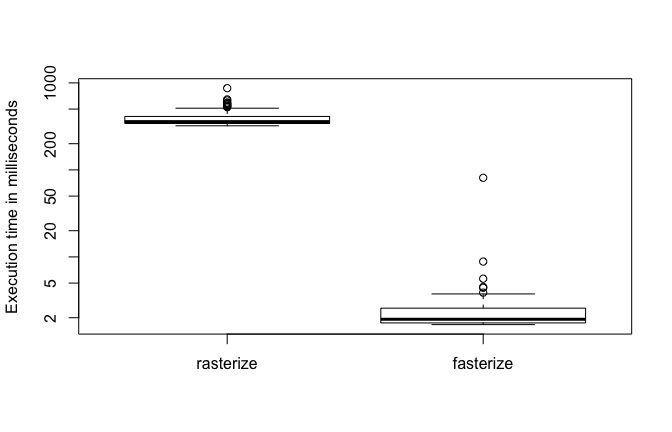
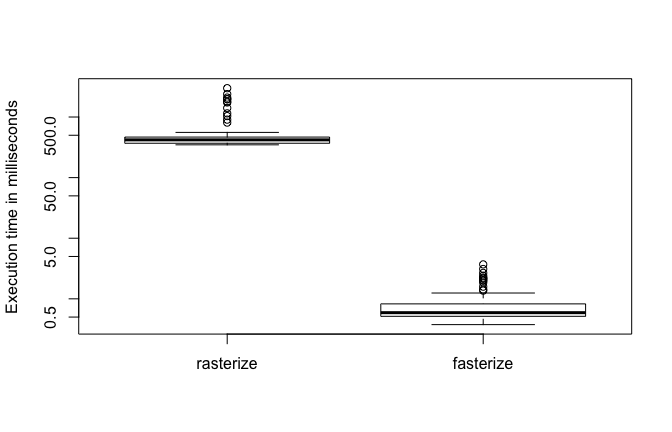
Moar faster! Some low-level speed tweaks
-   Move extraction of raster components in Rcpp
    to reduce overhead
-   Update the raster matrix in-place
-   Use Rcpp::internal::is_na instead of R_IsNA
-   Drop "crop" argument
-   Don't check every polygon class, just the overall
-   Update README

diff --git a/src/RcppExports.cpp b/src/RcppExports.cpp
@@ -7,16 +7,16 @@
 using namespace Rcpp;
 
 // rasterize_polygons
-arma::mat rasterize_polygons(Rcpp::List& polygons, Rcpp::NumericVector& field_values, Rcpp::List raster_info, double background);
-RcppExport SEXP fasterize_rasterize_polygons(SEXP polygonsSEXP, SEXP field_valuesSEXP, SEXP raster_infoSEXP, SEXP backgroundSEXP) {
+Rcpp::S4 rasterize_polygons(Rcpp::S4& raster, Rcpp::List& polygons, Rcpp::NumericVector& field_values, double background);
+RcppExport SEXP fasterize_rasterize_polygons(SEXP rasterSEXP, SEXP polygonsSEXP, SEXP field_valuesSEXP, SEXP backgroundSEXP) {
 BEGIN_RCPP
     Rcpp::RObject rcpp_result_gen;
     Rcpp::RNGScope rcpp_rngScope_gen;
+    Rcpp::traits::input_parameter< Rcpp::S4& >::type raster(rasterSEXP);
     Rcpp::traits::input_parameter< Rcpp::List& >::type polygons(polygonsSEXP);
     Rcpp::traits::input_parameter< Rcpp::NumericVector& >::type field_values(field_valuesSEXP);
-    Rcpp::traits::input_parameter< Rcpp::List >::type raster_info(raster_infoSEXP);
     Rcpp::traits::input_parameter< double >::type background(backgroundSEXP);
-    rcpp_result_gen = Rcpp::wrap(rasterize_polygons(polygons, field_values, raster_info, background));
+    rcpp_result_gen = Rcpp::wrap(rasterize_polygons(raster, polygons, field_values, background));
     return rcpp_result_gen;
 END_RCPP
 }

diff --git a/src/rasterize_polygons.cpp b/src/rasterize_polygons.cpp
@@ -9,13 +9,14 @@
 // [[Rcpp::plugins(cpp11)]
 // [[Rcpp::depends(RcppArmadillo)]]
 // [[Rcpp::export]]
-arma::mat rasterize_polygons(Rcpp::List &polygons,
-                             Rcpp::NumericVector &field_values,
-                             Rcpp::List raster_info,
-                             double background) {
+Rcpp::S4 rasterize_polygons(Rcpp::S4 &raster,
+                            Rcpp::List &polygons,
+                            Rcpp::NumericVector &field_values,
+                            double background) {
 
   //Move this R list into a C++ struct
-  RasterInfo ras(raster_info);
+  RasterInfo ras(raster);
+  Rcpp::S4 rasterdata = raster.slot("data");
 
   //Create the empty raster to fill
   arma::mat raster_matrix(ras.nrow, ras.ncol);
@@ -33,6 +34,12 @@ arma::mat rasterize_polygons(Rcpp::List &polygons,
   if(!R_IsNA(background)) {
     raster_matrix.replace(NA_REAL, background);
   }
-  return raster_matrix;
 
+  rasterdata.slot("values") = raster_matrix.t();
+  rasterdata.slot("min") = raster_matrix.min();
+  rasterdata.slot("max") = raster_matrix.max();
+  rasterdata.slot("inmemory") = true;
+  rasterdata.slot("fromdisk") = false;
+  rasterdata.slot("haveminmax") = true;
+  return rasterdata;
 }

diff --git a/src/edge.h b/src/edge.h
@@ -5,16 +5,27 @@
 
 // A small object to hold basic info about raster dimensions
 struct RasterInfo {
-  double xmin, ymax, xres, yres;
+  double xmin, xmax, ymin, ymax, xres, yres;
   int nrow, ncol;
 
-  RasterInfo(Rcpp::List &raster_info) {
-    xmin = Rcpp::as<double>(raster_info["xmin"]);
-    ymax = Rcpp::as<double>(raster_info["ymax"]);
-    xres = Rcpp::as<double>(raster_info["xres"]);
-    yres = Rcpp::as<double>(raster_info["yres"]);
-    nrow = Rcpp::as<int>(raster_info["nrow"]);
-    ncol = Rcpp::as<int>(raster_info["ncol"]);
+  RasterInfo(Rcpp::S4 raster) {
+    Rcpp::S4 extent = raster.slot("extent");
+    xmin = extent.slot("xmin");
+    xmax = extent.slot("xmax");
+    ymin = extent.slot("ymin");
+    ymax = extent.slot("ymax");
+    nrow = raster.slot("nrows");
+    ncol = raster.slot("ncols");
+
+    if(raster.slot("rotated")) {
+      Rcpp::S4 rotation = raster.slot("rotation");
+      Rcpp::NumericVector geotrans = rotation.slot("geotrans");
+      xres = geotrans[2];
+      yres = geotrans[4];
+    } else {
+    xres = (xmax - xmin)/ncol;
+    yres = (ymax - ymin)/nrow;
+    }
   }
 };
 

diff --git a/src/rasterize_polygon.cpp b/src/rasterize_polygon.cpp
@@ -50,9 +50,11 @@ void rasterize_polygon(arma::mat &raster, SEXP polygon, double &poly_value,
         xend = ceil((*it).x);
         for(xpix = xstart; xpix < xend; ++xpix) {
           //Trying to figure out how to avoid this test for every iteration
-          raster(yline, xpix) =
-            R_IsNA(raster(yline, xpix)) ?
-            poly_value : (raster(yline, xpix) + poly_value);
+          raster.at(yline, xpix) =
+            //it's probably dangerous to use Rcpp::internal
+            Rcpp::internal::Rcpp_IsNA(raster.at(yline, xpix)) ?
+            poly_value : (raster.at(yline, xpix) + poly_value);
+          // (raster.at(yline, xpix) + poly_value);
         }
       }
     }

diff --git a/src/rasterize_polygons.h b/src/rasterize_polygons.h
@@ -3,8 +3,9 @@
 
 #include <RcppArmadillo.h>
 
-arma::mat rasterize_polygons(Rcpp::List &polygons,
-                             Rcpp::NumericVector &field_values,
-                             Rcpp::List raster_info,
-                             double background);
+Rcpp::S4 rasterize_polygons(Rcpp::S4 &raster,
+                            Rcpp::List &polygons,
+                            Rcpp::NumericVector &field_values,
+                            Rcpp::List raster_info,
+                            double background);
 #endif

diff --git a/README.md b/README.md
@@ -53,18 +53,21 @@ Let's compare `fasterize()` to `raster::rasterize()`:
 pols_r <- as(pols, "Spatial")
 bench <- microbenchmark::microbenchmark(
   rasterize = r <- raster::rasterize(pols_r, r, field = "value", fun="sum"),
-  fasterize = f <- fasterize(pols, r, field = "value", fun="sum")
+  fasterize = f <- fasterize(pols, r, field = "value", fun="sum"),
+  unit = "ms"
 )
-print(bench, digits = 2)
+print(bench, digits = 3)
 ```
 
     #> Unit: milliseconds
-    #>       expr   min    lq  mean median    uq max neval cld
-    #>  rasterize 321.2 341.3 392.5  358.7 411.4 869   100   b
-    #>  fasterize   1.7   1.7   3.1    1.9   2.6  81   100  a
+    #>       expr     min      lq    mean  median      uq    max neval cld
+    #>  rasterize 347.599 369.086 566.915 419.953 466.610 2990.9   100   b
+    #>  fasterize   0.375   0.515   0.825   0.591   0.825    3.7   100  a
 
 ``` r
-boxplot(bench,  ylab="Execution time in milliseconds", xlab="", log=TRUE)
+options(scipen = 5)
+boxplot(bench,  ylab="Execution time in milliseconds",
+        unit = "ms", xlab="", log=TRUE)
 ```
 
 ![](inst/figs/readme-benchmark-1.png)
@@ -82,7 +85,7 @@ unzip("Mammals_Terrestrial.zip", exdir = "Mammals_Terrestrial")
 mammal_shapes <- st_read("Mammals_Terrestrial")
 ```
 
-    #> Reading layer `Mammals_Terrestrial' from data source `/Users/noamross/Dropbox (Personal)/projects/fasterize/Mammals_Terrestrial' using driver `ESRI Shapefile'
+    #> Reading layer `Mammals_Terrestrial' from data source `/Users/noamross/Dropbox (EHA)/projects/fasterize/Mammals_Terrestrial' using driver `ESRI Shapefile'
     #> converted into: MULTIPOLYGON
     #> Simple feature collection with 42714 features and 27 fields
     #> geometry type:  MULTIPOLYGON
@@ -93,16 +96,19 @@ mammal_shapes <- st_read("Mammals_Terrestrial")
 
 ``` r
 mammal_raster <- raster(mammal_shapes, res = 1/6)
-system.time(
-  mammal_raster <- fasterize(mammal_shapes, mammal_raster, field = 1, fun="sum")
-)
+bench2 <- microbenchmark::microbenchmark(
+  mammal_raster <- fasterize(mammal_shapes, mammal_raster, field = 1, fun="sum"),
+  times=20, unit = "s")
+print(bench2, digits=3)
 ```
 
-    #>    user  system elapsed 
-    #>   1.199   0.029   1.234
+    #> Unit: seconds
+    #>                                                                                   expr
+    #>  mammal_raster <- fasterize(mammal_shapes, mammal_raster, field = 1,      fun = "sum")
+    #>    min    lq  mean median    uq  max neval
+    #>  0.946 0.956 0.981  0.973 0.993 1.06    20
 
 ``` r
-par(mar=c(0,0,0,1))
 plot(mammal_raster, axes=FALSE, box=FALSE)
 ```
 
